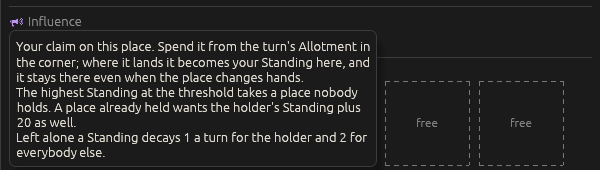
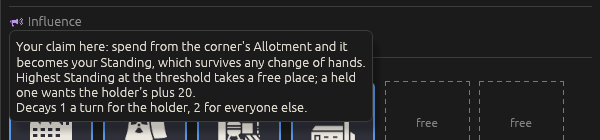
The Influence hovers tightened, your own chip made useful, and Threshold given an entry (ticket #161)
The designer: "revise verbage to be the most efficient possible in conveying
information". Every new hover is shorter with no fact dropped; your own chip
now says what it would take the nearest rival to reach you; Threshold gains
the CONTEXT.md entry it never had, distinguished from the climate sense; the
Colony card follows the Nation card rather than being special-cased.

Claude-Session: https://claude.ai/code/session_01D7EF8PeTfBmqaTPAvk4SCt

diff --git a/src/ui.rs b/src/ui.rs
@@ -3203,7 +3203,7 @@ fn influence_row(ui: &mut Ui, game: &Game, session: &Session, view: &mut ViewSta
             rule_tip(
                 ui.label("Influence:"),
                 format!(
-                    "How much of this turn's Allotment to put on this place. It becomes your Standing here and stays, whoever holds the place afterwards.\nThe Allotment does not carry over: whatever is unspent at End Turn is lost. Left alone a Standing decays {} a turn for the holder and {} for everybody else.",
+                    "How much of this turn's Allotment to put here. It becomes your Standing and stays, whoever holds the place after.\nUnspent Allotment is lost at End Turn. A Standing decays {} a turn for the holder, {} for everyone else.",
                     game.tables.influence.decay_controlled, game.tables.influence.decay
                 ),
             );
@@ -3214,7 +3214,7 @@ fn influence_row(ui: &mut Ui, game: &Game, session: &Session, view: &mut ViewSta
             let needed = game.influence_needed_for(Seat(0), target);
             let mine = game.seat(Seat(0)).influence.get(&target).copied().unwrap_or(0);
             let spend = match &ok {
-                Ok(_) => rule_tip(spend, format!("Put the Influence beside this on your Standing here, which stands at {mine}. You take this place at {needed}.")),
+                Ok(_) => rule_tip(spend, format!("Adds the figure beside it to your Standing here, now {mine}. You take this place at {needed}.")),
                 Err(e) => spend.on_disabled_hover_text(e.0.clone()),
             };
             if spend.clicked() {
@@ -3227,7 +3227,7 @@ fn influence_row(ui: &mut Ui, game: &Game, session: &Session, view: &mut ViewSta
         // Ticket #42: buying Influence lives in the Trading window now.
         if rule_tip(
             ui.small_button("Buy more Influence in the Trading window"),
-            "Ducats buy Influence into this turn's Allotment, two Ducats a point, and it is spent like any other. Opens the Trading window.".to_string(),
+            "Ducats buy Influence into this turn's Allotment, two a point, spent like any other. Opens the Trading window.".to_string(),
         )
         .clicked()
         {
@@ -3268,7 +3268,7 @@ fn influence_row(ui: &mut Ui, game: &Game, session: &Session, view: &mut ViewSta
         rule_tip(
             note,
             format!(
-                "Blame is the CO2 you are answerable for over the whole game -- everything your places and buildings have emitted, less everything you have taken back.\nYour share of the four Factions' Blame is {:.0} per cent, above a fair quarter, so every place you do not hold costs you more to win over, up to half again.\nThe Climate Panel breaks the Blame down Faction by Faction.",
+                "Blame is the CO2 you are answerable for all game: what your places emitted, less what you took back.\nYour share is {:.0} per cent, above a fair quarter, so every place you do not hold costs more to win over -- up to half again.\nThe Climate Panel breaks it down by Faction.",
                 game.blame_share(Seat(0)) * 100.0
             ),
         );
@@ -3302,19 +3302,32 @@ fn standings_row(ui: &mut Ui, game: &Game, session: &Session, target: Place, thr
             let chip = ui.label(RichText::new(format!(" {} {} ", game.seat_name(s), v)).color(Color32::BLACK).background_color(seat_colour(session, s)));
             // Ticket #161 (version 0.07.5): a chip of its own says whose the Standing is and how far
             // it has to go, which the line's hover -- written for the player's own case -- cannot.
+            // The designer asked that the player's own chip, on a place they hold, say instead what
+            // it would take to be safe from the nearest rival, which is the figure they act on.
             let holder = game.place_control(target).controller();
-            let standing = if holder == Some(s) {
+            let mine = s == Seat(0) && !session.spectator;
+            let whose = if mine { "Your Standing here.".to_string() } else { format!("The {}' Standing here.", game.seat_name(s)) };
+            let rest = if holder == Some(s) && mine {
+                let margin = game.tables.influence.challenge_margin;
+                let nearest = Seat(0).others().iter().map(|r| (*r, game.seat(*r).influence.get(&target).copied().unwrap_or(0))).max_by_key(|(_, n)| *n).filter(|(_, n)| *n > 0);
+                match nearest {
+                    Some((r, n)) => format!("A rival takes it at {}, your Standing plus {margin}. The {} are nearest at {n}, {} short. Every point you add here adds one to that.", v + margin, game.seat_name(r), (v + margin - n).max(0)),
+                    None => format!("No rival has any Standing here; one would need {}, your Standing plus {margin}.", v + margin),
+                }
+            } else if holder == Some(s) {
                 "They hold this place.".to_string()
             } else {
                 let needed = game.influence_needed_for(s, target);
-                format!("They take this place at {needed}, so they want {} more.", (needed - v).max(0))
+                let who = if mine { "You take" } else { "They take" };
+                let want = if mine { "you want" } else { "they want" };
+                format!("{who} this place at {needed}, so {want} {} more.", (needed - v).max(0))
             };
-            rule_tip(chip, format!("The {}' Standing here: the Influence they have built up on this place.\n{standing}", game.seat_name(s)));
+            rule_tip(chip, format!("{whose} {rest}"));
         }
         if !any {
             rule_tip(
                 ui.label(RichText::new("nobody has any yet").weak()),
-                "No Faction has spent Influence on this place. The first whose Standing reaches the threshold takes it; two arriving together on the same Standing are settled by lot.".to_string(),
+                "No Faction has spent here. The first Standing to reach the threshold takes it; two arriving level are settled by lot.".to_string(),
             );
         }
         ui.label(RichText::new("·").weak());
@@ -3322,13 +3335,13 @@ fn standings_row(ui: &mut Ui, game: &Game, session: &Session, target: Place, thr
         // never defines it.
         let t = &game.tables.influence;
         let from = match target {
-            Place::State(s) => format!("{} plus {} for each step of this state's size, which is {}.", t.state_threshold_base, t.state_threshold_per_size, game.tables.state(s).size),
-            Place::Colony(_) => format!("{} for every Colonist living here{}.", t.colony_threshold_per_colonist, if game.colony(match target { Place::Colony(c) => c, _ => unreachable!() }).map(|c| c.in_orbit).unwrap_or(false) { format!(", and {} for the station itself", t.station_threshold_base) } else { String::new() }),
+            Place::State(s) => format!("{}, plus {} a size step; this state's size is {}.", t.state_threshold_base, t.state_threshold_per_size, game.tables.state(s).size),
+            Place::Colony(_) => format!("{} a Colonist living here{}.", t.colony_threshold_per_colonist, if game.colony(match target { Place::Colony(c) => c, _ => unreachable!() }).map(|c| c.in_orbit).unwrap_or(false) { format!(", and {} for the station itself", t.station_threshold_base) } else { String::new() }),
         };
         rule_tip(
             ui.label(format!("Threshold {threshold}")),
             format!(
-                "What a Standing must reach to take this place: {from}\nGreen Consensus lowers every threshold by a quarter; your Blame raises the one you read, on every place you do not hold.\nA place already held wants the holder's Standing plus {} as well.",
+                "What a Standing must reach to take this place: {from}\nGreen Consensus cuts a quarter off it; your Blame adds to the one you read, on every place you do not hold.\nA held place also wants the holder's Standing plus {}.",
                 t.challenge_margin
             ),
         );
@@ -3618,14 +3631,14 @@ fn state_panel(ui: &mut Ui, session: &Session, game: &Game, view: &mut ViewState
     };
     // Ticket #161 (version 0.07.5): who holds a Region, and by what rule they keep or lose it.
     let owner_tip = match st.control {
-        Control::Neutral => "Nobody holds this Region. The first Faction whose Standing reaches the threshold takes it; two arriving together on the same Standing are settled by lot.".to_string(),
+        Control::Neutral => "Nobody holds it. The first Standing to reach the threshold takes it; two arriving level are settled by lot.".to_string(),
         Control::Controlled(s) => format!(
-            "The {} hold it, and take its Influence value into their Allotment every turn.\nA rival takes it with a Standing of at least theirs plus {}, and at least the rival's own threshold.",
+            "The {} hold it, and take its Influence value into their Allotment each turn.\nA rival needs their Standing plus {}, and at least its own threshold.",
             game.seat_name(s),
             game.tables.influence.challenge_margin
         ),
         Control::Occupied { occupier, .. } => format!(
-            "An Army of the {} beat its defenders. The occupier chooses what is built here but does not direct its Armies.\nControl passes after {} turns, or sooner if the people are Pacified: the occupier gains Influence here every turn, at half rate while Unrest is past its first threshold, and control transfers the moment that passes the place's threshold.",
+            "An Army of the {} beat its defenders: they choose what is built here but do not direct its Armies.\nControl passes after {} turns, or sooner once the occupier's Influence, gained each turn and halved while Unrest is high, passes the threshold.",
             game.seat_name(occupier),
             game.tables.influence.occupation_turns
         ),
@@ -3643,7 +3656,7 @@ fn state_panel(ui: &mut Ui, session: &Session, game: &Game, view: &mut ViewState
     rule_tip(
         icon_word(ui, "influence", format!("Influence value {}: what it adds to its controller's Allotment each turn (+1 per Industry Level raised)", game.state_influence_value(sid))),
         format!(
-            "The Allotment is the Influence you receive each turn: {} to start with, plus the Influence value of every Region you hold.\nIt does not carry over -- whatever you have not spent by End Turn is lost. Ducats buy more of it in the Trading window, two Ducats a point.",
+            "The Allotment is what you receive each turn: {}, plus the Influence value of every Region you hold.\nIt does not carry over; what is unspent at End Turn is lost. Ducats buy more, two a point, in the Trading window.",
             game.tables.influence.allotment_base
         ),
     );
@@ -3733,7 +3746,7 @@ fn state_panel(ui: &mut Ui, session: &Session, game: &Game, view: &mut ViewState
                 rule_tip(
                     warn,
                     format!(
-                        "A rival takes a place you hold at your Standing plus the challenge margin of {}, and never below their own threshold.\nSpending here raises yours out of their reach. Left alone, yours decays {} a turn and theirs {}, so doing nothing closes the gap.",
+                        "A rival takes a place you hold at your Standing plus the challenge margin of {}, and never below their own threshold.\nSpending here raises the bar; doing nothing lowers it, yours decaying {} a turn and theirs {}.",
                         game.tables.influence.challenge_margin,
                         game.tables.influence.decay_controlled,
                         game.tables.influence.decay
@@ -3754,7 +3767,7 @@ fn state_panel(ui: &mut Ui, session: &Session, game: &Game, view: &mut ViewState
         rule_tip(
             icon_word(ui, "influence", "Influence"),
             format!(
-                "Your claim on this place. Spend it from the turn's Allotment in the corner; where it lands it becomes your Standing here, and it stays there even when the place changes hands.\nThe highest Standing at the threshold takes a place nobody holds. A place already held wants the holder's Standing plus {} as well.\nLeft alone a Standing decays {} a turn for the holder and {} for everybody else.",
+                "Your claim here: spend from the corner's Allotment and it becomes your Standing, which survives any change of hands.\nHighest Standing at the threshold takes a free place; a held one wants the holder's plus {}.\nDecays {} a turn for the holder, {} for everyone else.",
                 game.tables.influence.challenge_margin,
                 game.tables.influence.decay_controlled,
                 game.tables.influence.decay

diff --git a/CONTEXT.md b/CONTEXT.md
@@ -386,6 +386,10 @@ _Avoid_: diplomacy points, favour, reputation
 How much Influence a Faction has built up on one place. Since version 0.03 it persists: it is never wiped when the place changes hands, it decays 1 a turn on a place the Faction controls and 2 a turn elsewhere when nothing is spent, and spending on a place you hold raises it.
 _Avoid_: accumulation, influence points, loyalty
 
+**Threshold**:
+The Standing a Faction must reach to take a place. A Region's is a base plus a figure for each step of the state's size; a Colony's is a figure for each of its Colonists, and a Space Station's has a base of its own besides. Green Consensus lowers every threshold by a quarter, and since version 0.05 each Faction reads its own, since its Blame raises it on every place it does not hold. A place already held wants the holder's Standing plus the challenge margin as well, so the threshold is the floor and never the whole price. The word has a second, unrelated sense in the climate rules, where a Break or a Sea Level threshold is a Temperature; this entry is the Influence one.
+_Avoid_: cost, price, target (for the Influence sense); the climate sense, which is a Break or a Sea Level threshold
+
 **Allotment**:
 The amount of Influence a Faction receives each turn, split freely across any number of targets during the Orders phase. It is a base plus the Influence value of every Region the Faction controls (since version 0.03 each state carries its own value, from its economic and military weight), and it does not carry over.
 _Avoid_: influence budget, diplomacy pool, action points

diff --git a/docs/dev-diary/2026-09-13-version-0.07.5/README.md b/docs/dev-diary/2026-09-13-version-0.07.5/README.md
@@ -16,7 +16,7 @@ the tooltip rule set on ticket #116 requires.
 
 ![The Threshold figure: what sets it, and what lowers and raises it](influence-hover-threshold.png)
 
-![A Faction's chip: whose the Standing is, and how far it has to go](influence-hover-chip.png)
+![Your own chip: what it would take a rival to reach you, and what spending here does](influence-hover-own-chip.png)
 
 ![The holder line: by what rule the holder keeps it, or an occupier takes it](influence-hover-holder.png)
 
@@ -26,6 +26,14 @@ value** line (which names the Allotment and never says what an Allotment is), an
 yet`**. The Colony's card followed, and its three controls -- `Influence:`, `Spend` and `Buy more
 Influence in the Trading window`, which the Nation card lost on ticket #121 -- gained hovers of
 their own.
+
+**Decided by the designer** off those pictures: *"revise verbage to be the most efficient possible
+in conveying information"*, so every one of the new hovers was tightened -- the heading's went from
+six rendered lines to four with no fact dropped; **your own chip says what it would take to be safe
+from the nearest rival** rather than repeating the rule; **Threshold gains an entry in
+`CONTEXT.md`**, which it never had, saying plainly that this is the Influence sense and not the
+climate one; and the Colony card **follows the same choices as the Nation card** rather than being
+special-cased.
 
 `icon_word` now hands back its response so a heading drawn with a glyph can carry a hover, which is
 what the Influence heading and the Influence value line needed.
